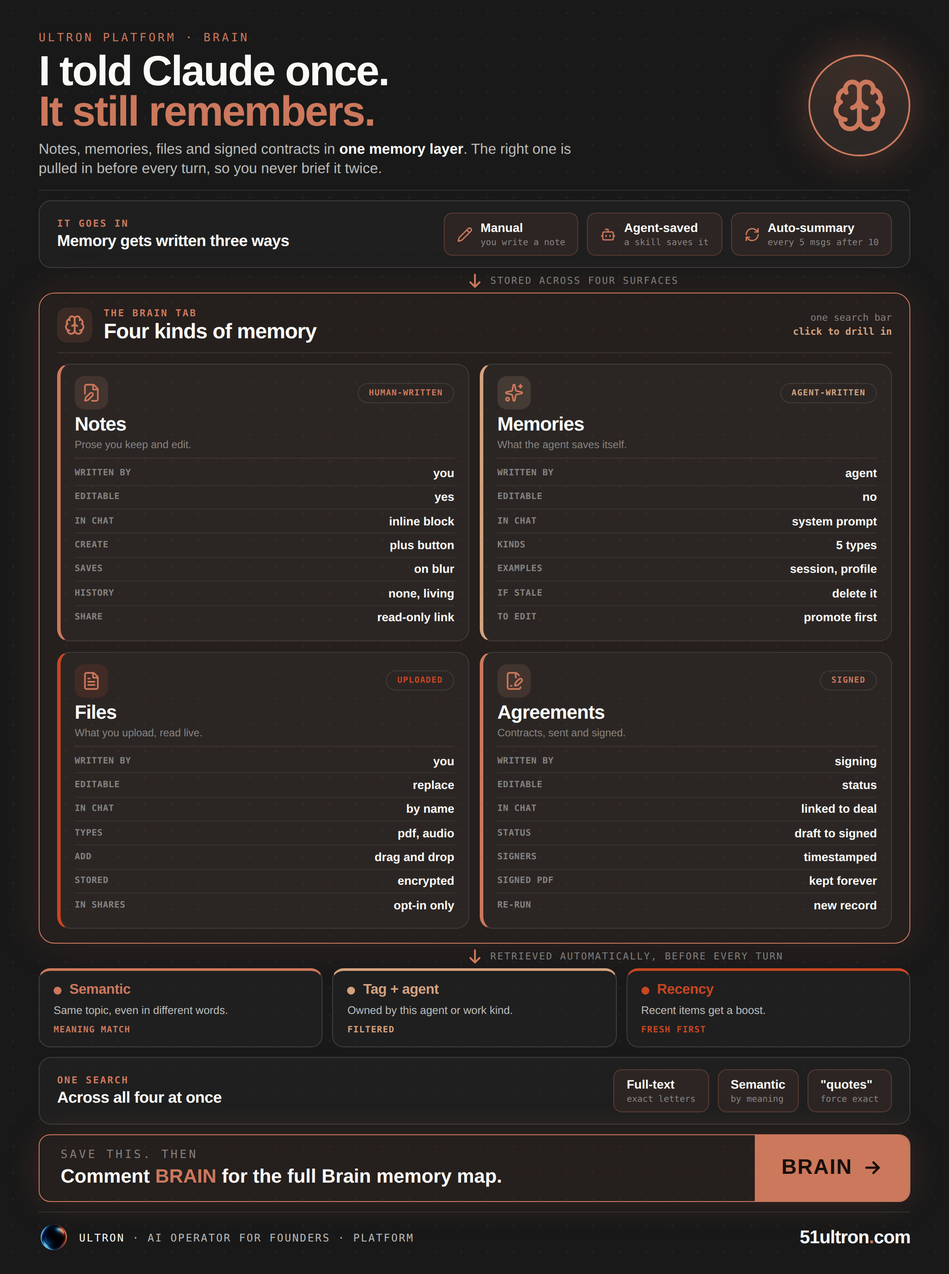
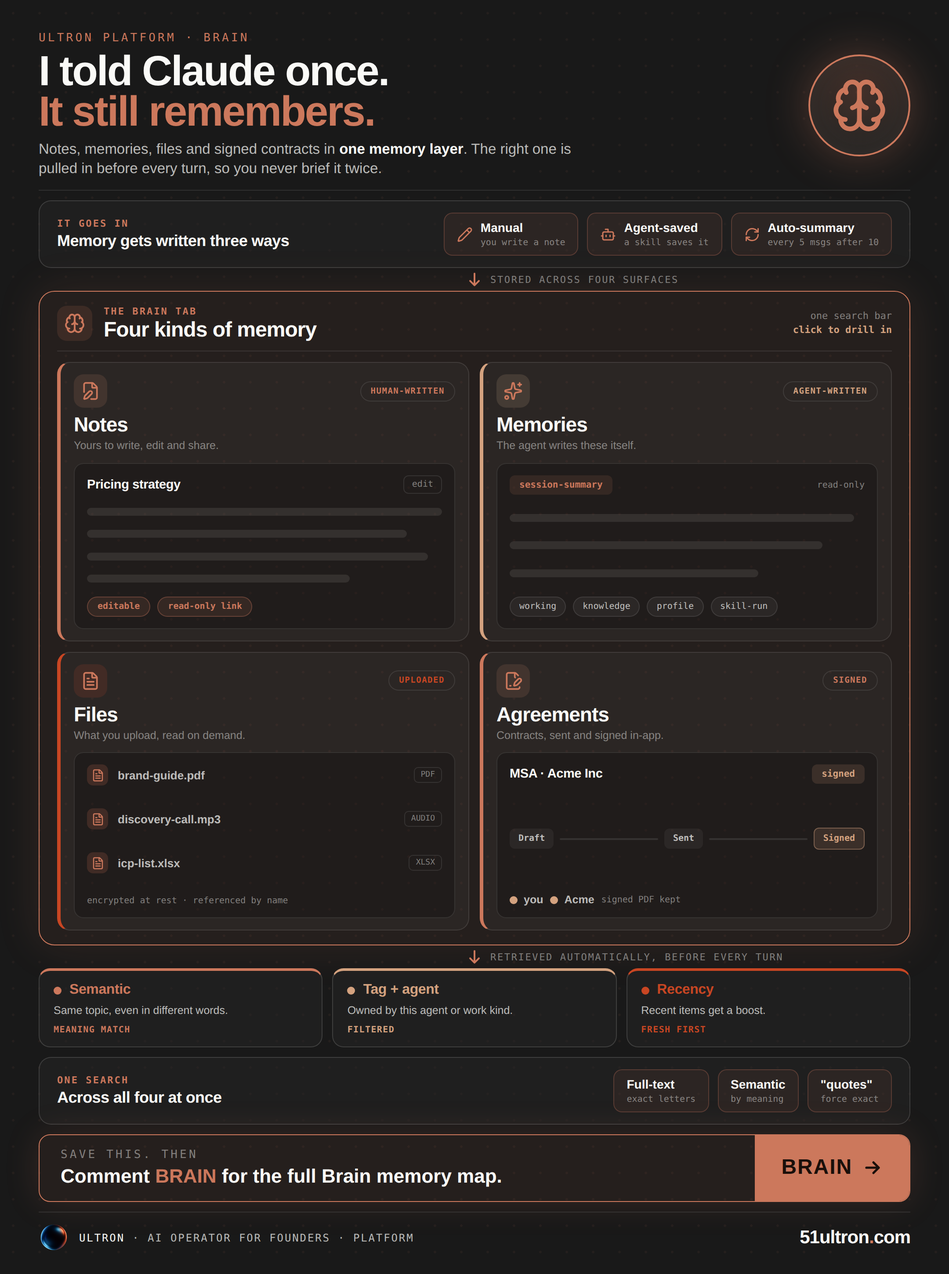
docs-06 Brain LinkedIn: redesign surfaces as mini mockups (kill the tables)
Operator: the key:value tables looked bad. Redesigned the four surface cards as
representative mini product mockups instead of spec tables:
- Notes: a note editor (title, edit, body lines, editable/share pills)
- Memories: a memory record (session-summary tag, read-only, kind chips)
- Files: a real file list (brand-guide.pdf, discovery-call.mp3, icp-list.xlsx +
  type badges, encrypted at rest)
- Agreements: a signing track (Draft > Sent > Signed) with signers and signed PDF
Each card now shows what the surface looks like in-product. Visual and dense, no
tables. Dark Ultron, 1450px, metadata scrubbed.

https://claude.ai/code/session_018fS7xMwDiJUxoNS3zo3BKw

diff --git a/content/docs-06-brain-linkedin-v1.html b/content/docs-06-brain-linkedin-v1.html
@@ -13,9 +13,9 @@ body{background:#0d0d0d;display:flex;justify-content:center;padding:24px 0;font-
 .brainw{flex-shrink:0;width:116px;height:116px;border-radius:50%;background:radial-gradient(circle at 50% 36%,rgba(204,120,92,.24),var(--slate2) 72%);border:2px solid var(--book);box-shadow:0 0 50px rgba(204,120,92,.32),inset 0 0 30px rgba(204,120,92,.1);display:flex;align-items:center;justify-content:center;}
 .brainw svg{width:64px;height:64px;}
 .flow{flex:1;display:flex;flex-direction:column;min-height:0;}
-.arrow{flex-shrink:0;display:flex;align-items:center;justify-content:center;color:var(--book);height:28px;position:relative;}
+.arrow{flex-shrink:0;display:flex;align-items:center;justify-content:center;color:var(--book);height:26px;position:relative;}
 .arrow .lbl{position:absolute;left:calc(50% + 18px);font-family:'DM Mono',monospace;font-size:11px;font-weight:500;letter-spacing:.12em;text-transform:uppercase;color:var(--ink46);white-space:nowrap;}
-.arrow svg{width:21px;height:21px;stroke:var(--book);stroke-width:2.4;fill:none;stroke-linecap:round;stroke-linejoin:round;}
+.arrow svg{width:20px;height:20px;stroke:var(--book);stroke-width:2.4;fill:none;stroke-linecap:round;stroke-linejoin:round;}
 .band{flex-shrink:0;background:rgba(38,38,37,.5);border:1px solid var(--ink14);border-radius:14px;padding:13px 20px;display:flex;align-items:center;gap:18px;}
 .band .bt{flex-shrink:0;}
 .band .bt .k{font-family:'DM Mono',monospace;font-size:11px;font-weight:600;letter-spacing:.14em;text-transform:uppercase;color:var(--book);margin-bottom:4px;}
@@ -32,17 +32,35 @@ body{background:#0d0d0d;display:flex;justify-content:center;padding:24px 0;font-
 .focal-h .meta{margin-left:auto;text-align:right;font-family:'DM Mono',monospace;font-size:11px;font-weight:500;color:var(--ink46);line-height:1.5;}
 .focal-h .meta b{color:var(--kraft);font-weight:700;}
 .bgrid{flex:1;min-height:0;display:grid;grid-template-columns:1fr 1fr;grid-template-rows:1fr 1fr;gap:12px;padding-top:12px;}
-.bcard{background:rgba(255,255,255,.03);border:1px solid var(--rule);border-left:4px solid var(--c);border-radius:14px;padding:13px 16px;display:flex;flex-direction:column;}
-.bct{display:flex;align-items:center;justify-content:space-between;margin-bottom:6px;}
-.bic{width:38px;height:38px;border-radius:11px;background:color-mix(in srgb,var(--c) 17%,var(--slate2));display:flex;align-items:center;justify-content:center;}.bic svg{width:22px;height:22px;}
-.btag{font-family:'DM Mono',monospace;font-size:9.5px;font-weight:600;letter-spacing:.08em;text-transform:uppercase;color:var(--c);border:1px solid var(--rule);padding:5px 12px;border-radius:20px;}
-.bnm{font-size:22px;font-weight:900;letter-spacing:-.5px;color:var(--ivory);line-height:1;}
-.bdesc{font-size:12px;font-weight:500;color:var(--ink46);line-height:1.25;margin-top:5px;}
-.br{flex:1;margin-top:7px;display:flex;flex-direction:column;border-top:1px dotted rgba(204,120,92,.3);padding-top:3px;}
-.br .row{flex:1;display:flex;justify-content:space-between;align-items:center;gap:10px;border-bottom:1px solid rgba(250,250,247,.06);}
-.br .row:last-child{border-bottom:none;}
-.br .rk{font-family:'DM Mono',monospace;font-size:10px;font-weight:600;letter-spacing:.04em;text-transform:uppercase;color:var(--ink46);white-space:nowrap;}
-.br .rv{font-size:13.5px;font-weight:700;color:var(--ivory);text-align:right;}
+.scard{background:rgba(255,255,255,.03);border:1px solid var(--rule);border-left:4px solid var(--c);border-radius:14px;padding:13px 15px;display:flex;flex-direction:column;}
+.sct{display:flex;align-items:center;justify-content:space-between;margin-bottom:8px;}
+.sic{width:38px;height:38px;border-radius:11px;background:color-mix(in srgb,var(--c) 17%,var(--slate2));display:flex;align-items:center;justify-content:center;}.sic svg{width:22px;height:22px;}
+.stag{font-family:'DM Mono',monospace;font-size:9.5px;font-weight:600;letter-spacing:.08em;text-transform:uppercase;color:var(--c);border:1px solid var(--rule);padding:5px 11px;border-radius:20px;}
+.snm{font-size:23px;font-weight:900;letter-spacing:-.5px;color:var(--ivory);line-height:1;}
+.slead{font-size:12.5px;font-weight:500;color:var(--ink46);line-height:1.25;margin-top:5px;}
+.mock{flex:1;margin-top:11px;background:rgba(0,0,0,.24);border:1px solid var(--rule);border-radius:11px;padding:13px 14px;display:flex;flex-direction:column;justify-content:space-between;gap:8px;overflow:hidden;}
+.mrow{display:flex;align-items:center;justify-content:space-between;gap:8px;}
+.mttl{font-size:14.5px;font-weight:800;color:var(--ivory);letter-spacing:-.2px;}
+.medit{font-family:'DM Mono',monospace;font-size:10px;color:var(--ink46);border:1px solid var(--rule);padding:4px 9px;border-radius:6px;}
+.mline{height:9px;border-radius:5px;background:rgba(250,250,247,.09);}
+.mfoot{display:flex;gap:8px;align-items:center;}
+.mwrap{flex-wrap:wrap;}
+.mpill{font-family:'DM Mono',monospace;font-size:10px;font-weight:600;color:var(--c);background:color-mix(in srgb,var(--c) 13%,transparent);border:1px solid color-mix(in srgb,var(--c) 32%,transparent);padding:5px 11px;border-radius:20px;}
+.mtag{font-family:'DM Mono',monospace;font-size:10.5px;font-weight:600;padding:5px 11px;border-radius:6px;color:var(--book);background:rgba(204,120,92,.13);}
+.mtag.kr{color:var(--kraft);background:rgba(212,162,127,.15);}
+.mlock{font-family:'DM Mono',monospace;font-size:10px;color:var(--ink46);}
+.mk{font-family:'DM Mono',monospace;font-size:10px;color:var(--ink70);background:rgba(250,250,247,.05);border:1px solid var(--rule);padding:5px 10px;border-radius:14px;}
+.mfile{display:flex;align-items:center;gap:11px;}
+.mfg{width:24px;height:24px;flex-shrink:0;border-radius:7px;background:color-mix(in srgb,var(--c) 16%,var(--slate2));display:flex;align-items:center;justify-content:center;}.mfg svg{width:15px;height:15px;}
+.mfn{flex:1;font-size:13px;font-weight:600;color:var(--ink70);white-space:nowrap;overflow:hidden;text-overflow:ellipsis;}
+.mft{font-family:'DM Mono',monospace;font-size:9px;color:var(--ink46);border:1px solid var(--rule);padding:3px 7px;border-radius:5px;flex-shrink:0;}
+.mtrack{display:flex;align-items:center;gap:7px;}
+.mstep{font-family:'DM Mono',monospace;font-size:10px;font-weight:600;padding:6px 10px;border-radius:6px;color:var(--ink46);background:rgba(250,250,247,.05);white-space:nowrap;}
+.mstep.done{color:var(--ink70);}
+.mstep.act{color:var(--kraft);background:rgba(212,162,127,.15);border:1px solid rgba(212,162,127,.42);}
+.mdash{flex:1;height:2px;background:var(--rule);border-radius:1px;min-width:8px;}
+.msign{display:flex;align-items:center;gap:7px;font-size:12.5px;font-weight:600;color:var(--ink70);}
+.msign::before{content:'';width:9px;height:9px;border-radius:50%;background:var(--kraft);flex-shrink:0;}
 .branch{flex-shrink:0;display:grid;grid-template-columns:repeat(3,1fr);gap:11px;}
 .oc{background:rgba(38,38,37,.5);border:1px solid var(--ink14);border-top:3px solid var(--c);border-radius:13px;padding:13px 16px;}
 .oc .on{display:flex;align-items:center;gap:9px;font-weight:800;font-size:16px;letter-spacing:-.2px;color:var(--c);margin-bottom:6px;}
@@ -59,4 +77,4 @@ body{background:#0d0d0d;display:flex;justify-content:center;padding:24px 0;font-
 .fl{display:flex;align-items:center;gap:12px;min-width:0;}.flogo{width:34px;height:34px;border-radius:50%;object-fit:cover;}
 .ftx{font-family:'DM Mono',monospace;font-size:12px;font-weight:400;letter-spacing:.12em;text-transform:uppercase;color:var(--ink70);}.ftx b{color:var(--ivory);font-weight:500;}
 .furl{font-weight:900;font-size:21px;letter-spacing:-.5px;color:var(--ivory);}.furl em{color:var(--book);font-style:normal;}
-</style></head><body><div class="frame" id="artifact"><div class="atm"></div><div class="hero"><div><div class="eye">Ultron Platform &middot; Brain</div><div class="hook">I told Claude once.<br><em>It still remembers.</em></div><div class="sub">Notes, memories, files and signed contracts in <b>one memory layer</b>. The right one is pulled in before every turn, so you never brief it twice.</div></div><div class="brainw"><svg xmlns="http://www.w3.org/2000/svg" width="1em" height="1em" viewBox="0 0 24 24"><g fill="none" stroke="#CC785C" stroke-linecap="round" stroke-linejoin="round" stroke-width="2"><path d="M12 18V5m3 8a4.17 4.17 0 0 1-3-4a4.17 4.17 0 0 1-3 4m8.598-6.5A3 3 0 1 0 12 5a3 3 0 1 0-5.598 1.5"/><path d="M17.997 5.125a4 4 0 0 1 2.526 5.77"/><path d="M18 18a4 4 0 0 0 2-7.464"/><path d="M19.967 17.483A4 4 0 1 1 12 18a4 4 0 1 1-7.967-.517"/><path d="M6 18a4 4 0 0 1-2-7.464"/><path d="M6.003 5.125a4 4 0 0 0-2.526 5.77"/></g></svg></div></div><div class="flow"><div class="band"><div class="bt"><div class="k">It goes in</div><div class="h">Memory gets written three ways</div></div><div class="chips"><div class="chip"><span class="ci"><svg xmlns="http://www.w3.org/2000/svg" width="1em" height="1em" viewBox="0 0 24 24"><path fill="none" stroke="#CC785C" stroke-linecap="round" stroke-linejoin="round" stroke-width="2" d="M21.174 6.812a1 1 0 0 0-3.986-3.987L3.842 16.174a2 2 0 0 0-.5.83l-1.321 4.352a.5.5 0 0 0 .623.622l4.353-1.32a2 2 0 0 0 .83-.497zM15 5l4 4"/></svg></span><span><span class="ct">Manual</span><span class="cs">you write a note</span></span></div><div class="chip"><span class="ci"><svg xmlns="http://www.w3.org/2000/svg" width="1em" height="1em" viewBox="0 0 24 24"><g fill="none" stroke="#CC785C" stroke-linecap="round" stroke-linejoin="round" stroke-width="2"><path d="M12 8V4H8"/><rect width="16" height="12" x="4" y="8" rx="2"/><path d="M2 14h2m16 0h2m-7-1v2m-6-2v2"/></g></svg></span><span><span class="ct">Agent-saved</span><span class="cs">a skill saves it</span></span></div><div class="chip"><span class="ci"><svg xmlns="http://www.w3.org/2000/svg" width="1em" height="1em" viewBox="0 0 24 24"><g fill="none" stroke="#CC785C" stroke-linecap="round" stroke-linejoin="round" stroke-width="2"><path d="M3 12a9 9 0 0 1 9-9a9.75 9.75 0 0 1 6.74 2.74L21 8"/><path d="M21 3v5h-5m5 4a9 9 0 0 1-9 9a9.75 9.75 0 0 1-6.74-2.74L3 16"/><path d="M8 16H3v5"/></g></svg></span><span><span class="ct">Auto-summary</span><span class="cs">every 5 msgs after 10</span></span></div></div></div><div class="arrow"><svg viewBox="0 0 24 24"><path d="M12 4v16M6 14l6 6 6-6"/></svg><span class="lbl">stored across four surfaces</span></div><div class="focal"><div class="focal-h"><div class="fhi"><svg xmlns="http://www.w3.org/2000/svg" width="1em" height="1em" viewBox="0 0 24 24"><g fill="none" stroke="#CC785C" stroke-linecap="round" stroke-linejoin="round" stroke-width="2"><path d="M12 18V5m3 8a4.17 4.17 0 0 1-3-4a4.17 4.17 0 0 1-3 4m8.598-6.5A3 3 0 1 0 12 5a3 3 0 1 0-5.598 1.5"/><path d="M17.997 5.125a4 4 0 0 1 2.526 5.77"/><path d="M18 18a4 4 0 0 0 2-7.464"/><path d="M19.967 17.483A4 4 0 1 1 12 18a4 4 0 1 1-7.967-.517"/><path d="M6 18a4 4 0 0 1-2-7.464"/><path d="M6.003 5.125a4 4 0 0 0-2.526 5.77"/></g></svg></div><div><div class="k">The Brain tab</div><div class="h">Four kinds of memory</div></div><div class="meta">one search bar<br><b>click to drill in</b></div></div><div class="bgrid"><div class="bcard" style="--c:var(--book)"><div class="bct"><span class="bic"><svg xmlns="http://www.w3.org/2000/svg" width="1em" height="1em" viewBox="0 0 24 24"><g fill="none" stroke="#CC785C" stroke-linecap="round" stroke-linejoin="round" stroke-width="2"><path d="M12.659 22H18a2 2 0 0 0 2-2V8a2.4 2.4 0 0 0-.706-1.706l-3.588-3.588A2.4 2.4 0 0 0 14 2H6a2 2 0 0 0-2 2v9.34"/><path d="M14 2v5a1 1 0 0 0 1 1h5m-9.622 4.622a1 1 0 0 1 3 3.003L8.36 20.637a2 2 0 0 1-.854.506l-2.867.837a.5.5 0 0 1-.62-.62l.836-2.869a2 2 0 0 1 .506-.853z"/></g></svg></span><span class="btag">HUMAN-WRITTEN</span></div><div class="bnm">Notes</div><div class="bdesc">Prose you keep and edit.</div><div class="br"><div class="row"><span class="rk">WRITTEN BY</span><span class="rv">you</span></div><div class="row"><span class="rk">EDITABLE</span><span class="rv">yes</span></div><div class="row"><span class="rk">IN CHAT</span><span class="rv">inline block</span></div><div class="row"><span class="rk">CREATE</span><span class="rv">plus button</span></div><div class="row"><span class="rk">SAVES</span><span class="rv">on blur</span></div><div class="row"><span class="rk">HISTORY</span><span class="rv">none, living</span></div><div class="row"><span class="rk">SHARE</span><span class="rv">read-only link</span></div></div></div><div class="bcard" style="--c:var(--kraft)"><div class="bct"><span class="bic"><svg xmlns="http://www.w3.org/2000/svg" width="1em" height="1em" viewBox="0 0 24 24"><g fill="none" stroke="#CC785C" stroke-linecap="round" stroke-linejoin="round" stroke-width="2"><path d="M11.017 2.814a1 1 0 0 1 1.966 0l1.051 5.558a2 2 0 0 0 1.594 1.594l5.558 1.051a1 1 0 0 1 0 1.966l-5.558 1.051a2 2 0 0 0-1.594 1.594l-1.051 5.558a1 1 0 0 1-1.966 0l-1.051-5.558a2 2 0 0 0-1.594-1.594l-5.558-1.051a1 1 0 0 1 0-1.966l5.558-1.051a2 2 0 0 0 1.594-1.594zM20 2v4m2-2h-4"/><circle cx="4" cy="20" r="2"/></g></svg></span><span class="btag">AGENT-WRITTEN</span></div><div class="bnm">Memories</div><div class="bdesc">What the agent saves itself.</div><div class="br"><div class="row"><span class="rk">WRITTEN BY</span><span class="rv">agent</span></div><div class="row"><span class="rk">EDITABLE</span><span class="rv">no</span></div><div class="row"><span class="rk">IN CHAT</span><span class="rv">system prompt</span></div><div class="row"><span class="rk">KINDS</span><span class="rv">5 types</span></div><div class="row"><span class="rk">EXAMPLES</span><span class="rv">session, profile</span></div><div class="row"><span class="rk">IF STALE</span><span class="rv">delete it</span></div><div class="row"><span class="rk">TO EDIT</span><span class="rv">promote first</span></div></div></div><div class="bcard" style="--c:var(--book-d)"><div class="bct"><span class="bic"><svg xmlns="http://www.w3.org/2000/svg" width="1em" height="1em" viewBox="0 0 24 24"><g fill="none" stroke="#CC785C" stroke-linecap="round" stroke-linejoin="round" stroke-width="2"><path d="M6 22a2 2 0 0 1-2-2V4a2 2 0 0 1 2-2h8a2.4 2.4 0 0 1 1.704.706l3.588 3.588A2.4 2.4 0 0 1 20 8v12a2 2 0 0 1-2 2z"/><path d="M14 2v5a1 1 0 0 0 1 1h5M10 9H8m8 4H8m8 4H8"/></g></svg></span><span class="btag">UPLOADED</span></div><div class="bnm">Files</div><div class="bdesc">What you upload, read live.</div><div class="br"><div class="row"><span class="rk">WRITTEN BY</span><span class="rv">you</span></div><div class="row"><span class="rk">EDITABLE</span><span class="rv">replace</span></div><div class="row"><span class="rk">IN CHAT</span><span class="rv">by name</span></div><div class="row"><span class="rk">TYPES</span><span class="rv">pdf, audio</span></div><div class="row"><span class="rk">ADD</span><span class="rv">drag and drop</span></div><div class="row"><span class="rk">STORED</span><span class="rv">encrypted</span></div><div class="row"><span class="rk">IN SHARES</span><span class="rv">opt-in only</span></div></div></div><div class="bcard" style="--c:var(--book)"><div class="bct"><span class="bic"><svg xmlns="http://www.w3.org/2000/svg" width="1em" height="1em" viewBox="0 0 24 24"><g fill="none" stroke="#CC785C" stroke-linecap="round" stroke-linejoin="round" stroke-width="2"><path d="M14.364 13.634a2 2 0 0 0-.506.854l-.837 2.87a.5.5 0 0 0 .62.62l2.87-.837a2 2 0 0 0 .854-.506l4.013-4.009a1 1 0 0 0-3.004-3.004zm.123-5.776A1 1 0 0 1 14 7V2"/><path d="M20 19.645V20a2 2 0 0 1-2 2H6a2 2 0 0 1-2-2V4a2 2 0 0 1 2-2h8a2.4 2.4 0 0 1 1.704.706l2.516 2.516M8 18h1"/></g></svg></span><span class="btag">SIGNED</span></div><div class="bnm">Agreements</div><div class="bdesc">Contracts, sent and signed.</div><div class="br"><div class="row"><span class="rk">WRITTEN BY</span><span class="rv">signing</span></div><div class="row"><span class="rk">EDITABLE</span><span class="rv">status</span></div><div class="row"><span class="rk">IN CHAT</span><span class="rv">linked to deal</span></div><div class="row"><span class="rk">STATUS</span><span class="rv">draft to signed</span></div><div class="row"><span class="rk">SIGNERS</span><span class="rv">timestamped</span></div><div class="row"><span class="rk">SIGNED PDF</span><span class="rv">kept forever</span></div><div class="row"><span class="rk">RE-RUN</span><span class="rv">new record</span></div></div></div></div></div><div class="arrow"><svg viewBox="0 0 24 24"><path d="M12 4v16M6 14l6 6 6-6"/></svg><span class="lbl">retrieved automatically, before every turn</span></div><div class="branch"><div class="oc" style="--c:var(--book)"><div class="on"><span class="d"></span>Semantic</div><div class="od">Same topic, even in different words.</div><div class="ok">meaning match</div></div><div class="oc" style="--c:var(--kraft)"><div class="on"><span class="d"></span>Tag + agent</div><div class="od">Owned by this agent or work kind.</div><div class="ok">filtered</div></div><div class="oc" style="--c:var(--book-d)"><div class="on"><span class="d"></span>Recency</div><div class="od">Recent items get a boost.</div><div class="ok">fresh first</div></div></div><div class="band" style="margin-top:11px"><div class="bt"><div class="k">One search</div><div class="h">Across all four at once</div></div><div class="chips"><div class="chip"><span><span class="ct">Full-text</span><span class="cs">exact letters</span></span></div><div class="chip"><span><span class="ct">Semantic</span><span class="cs">by meaning</span></span></div><div class="chip"><span><span class="ct">&quot;quotes&quot;</span><span class="cs">force exact</span></span></div></div></div></div><div class="cta"><div class="cta-l"><div class="cta-k">Save this. Then</div><div class="cta-t">Comment <b>BRAIN</b> for the full Brain memory map.</div></div><div class="cta-chip">BRAIN <svg viewBox="0 0 24 24"><path d="M5 12h14M13 6l6 6-6 6"/></svg></div></div><div class="ftr"><div class="fl"><img class="flogo" src="__LOGO__" alt="Ultron"><div class="ftx"><b>ULTRON</b> &middot; AI OPERATOR FOR FOUNDERS &middot; PLATFORM</div></div><div class="furl">51ultron<em>.</em>com</div></div></div></body></html>
+</style></head><body><div class="frame" id="artifact"><div class="atm"></div><div class="hero"><div><div class="eye">Ultron Platform &middot; Brain</div><div class="hook">I told Claude once.<br><em>It still remembers.</em></div><div class="sub">Notes, memories, files and signed contracts in <b>one memory layer</b>. The right one is pulled in before every turn, so you never brief it twice.</div></div><div class="brainw"><svg xmlns="http://www.w3.org/2000/svg" width="1em" height="1em" viewBox="0 0 24 24"><g fill="none" stroke="#CC785C" stroke-linecap="round" stroke-linejoin="round" stroke-width="2"><path d="M12 18V5m3 8a4.17 4.17 0 0 1-3-4a4.17 4.17 0 0 1-3 4m8.598-6.5A3 3 0 1 0 12 5a3 3 0 1 0-5.598 1.5"/><path d="M17.997 5.125a4 4 0 0 1 2.526 5.77"/><path d="M18 18a4 4 0 0 0 2-7.464"/><path d="M19.967 17.483A4 4 0 1 1 12 18a4 4 0 1 1-7.967-.517"/><path d="M6 18a4 4 0 0 1-2-7.464"/><path d="M6.003 5.125a4 4 0 0 0-2.526 5.77"/></g></svg></div></div><div class="flow"><div class="band"><div class="bt"><div class="k">It goes in</div><div class="h">Memory gets written three ways</div></div><div class="chips"><div class="chip"><span class="ci"><svg xmlns="http://www.w3.org/2000/svg" width="1em" height="1em" viewBox="0 0 24 24"><path fill="none" stroke="#CC785C" stroke-linecap="round" stroke-linejoin="round" stroke-width="2" d="M21.174 6.812a1 1 0 0 0-3.986-3.987L3.842 16.174a2 2 0 0 0-.5.83l-1.321 4.352a.5.5 0 0 0 .623.622l4.353-1.32a2 2 0 0 0 .83-.497zM15 5l4 4"/></svg></span><span><span class="ct">Manual</span><span class="cs">you write a note</span></span></div><div class="chip"><span class="ci"><svg xmlns="http://www.w3.org/2000/svg" width="1em" height="1em" viewBox="0 0 24 24"><g fill="none" stroke="#CC785C" stroke-linecap="round" stroke-linejoin="round" stroke-width="2"><path d="M12 8V4H8"/><rect width="16" height="12" x="4" y="8" rx="2"/><path d="M2 14h2m16 0h2m-7-1v2m-6-2v2"/></g></svg></span><span><span class="ct">Agent-saved</span><span class="cs">a skill saves it</span></span></div><div class="chip"><span class="ci"><svg xmlns="http://www.w3.org/2000/svg" width="1em" height="1em" viewBox="0 0 24 24"><g fill="none" stroke="#CC785C" stroke-linecap="round" stroke-linejoin="round" stroke-width="2"><path d="M3 12a9 9 0 0 1 9-9a9.75 9.75 0 0 1 6.74 2.74L21 8"/><path d="M21 3v5h-5m5 4a9 9 0 0 1-9 9a9.75 9.75 0 0 1-6.74-2.74L3 16"/><path d="M8 16H3v5"/></g></svg></span><span><span class="ct">Auto-summary</span><span class="cs">every 5 msgs after 10</span></span></div></div></div><div class="arrow"><svg viewBox="0 0 24 24"><path d="M12 4v16M6 14l6 6 6-6"/></svg><span class="lbl">stored across four surfaces</span></div><div class="focal"><div class="focal-h"><div class="fhi"><svg xmlns="http://www.w3.org/2000/svg" width="1em" height="1em" viewBox="0 0 24 24"><g fill="none" stroke="#CC785C" stroke-linecap="round" stroke-linejoin="round" stroke-width="2"><path d="M12 18V5m3 8a4.17 4.17 0 0 1-3-4a4.17 4.17 0 0 1-3 4m8.598-6.5A3 3 0 1 0 12 5a3 3 0 1 0-5.598 1.5"/><path d="M17.997 5.125a4 4 0 0 1 2.526 5.77"/><path d="M18 18a4 4 0 0 0 2-7.464"/><path d="M19.967 17.483A4 4 0 1 1 12 18a4 4 0 1 1-7.967-.517"/><path d="M6 18a4 4 0 0 1-2-7.464"/><path d="M6.003 5.125a4 4 0 0 0-2.526 5.77"/></g></svg></div><div><div class="k">The Brain tab</div><div class="h">Four kinds of memory</div></div><div class="meta">one search bar<br><b>click to drill in</b></div></div><div class="bgrid"><div class="scard" style="--c:var(--book)"><div class="sct"><span class="sic"><svg xmlns="http://www.w3.org/2000/svg" width="1em" height="1em" viewBox="0 0 24 24"><g fill="none" stroke="#CC785C" stroke-linecap="round" stroke-linejoin="round" stroke-width="2"><path d="M12.659 22H18a2 2 0 0 0 2-2V8a2.4 2.4 0 0 0-.706-1.706l-3.588-3.588A2.4 2.4 0 0 0 14 2H6a2 2 0 0 0-2 2v9.34"/><path d="M14 2v5a1 1 0 0 0 1 1h5m-9.622 4.622a1 1 0 0 1 3 3.003L8.36 20.637a2 2 0 0 1-.854.506l-2.867.837a.5.5 0 0 1-.62-.62l.836-2.869a2 2 0 0 1 .506-.853z"/></g></svg></span><span class="stag">HUMAN-WRITTEN</span></div><div class="snm">Notes</div><div class="slead">Yours to write, edit and share.</div><div class="mock"><div class="mrow"><span class="mttl">Pricing strategy</span><span class="medit">edit</span></div><div class="mline" style="width:100%"></div><div class="mline" style="width:90%"></div><div class="mline" style="width:96%"></div><div class="mline" style="width:74%"></div><div class="mfoot"><span class="mpill">editable</span><span class="mpill">read-only link</span></div></div></div><div class="scard" style="--c:var(--kraft)"><div class="sct"><span class="sic"><svg xmlns="http://www.w3.org/2000/svg" width="1em" height="1em" viewBox="0 0 24 24"><g fill="none" stroke="#CC785C" stroke-linecap="round" stroke-linejoin="round" stroke-width="2"><path d="M11.017 2.814a1 1 0 0 1 1.966 0l1.051 5.558a2 2 0 0 0 1.594 1.594l5.558 1.051a1 1 0 0 1 0 1.966l-5.558 1.051a2 2 0 0 0-1.594 1.594l-1.051 5.558a1 1 0 0 1-1.966 0l-1.051-5.558a2 2 0 0 0-1.594-1.594l-5.558-1.051a1 1 0 0 1 0-1.966l5.558-1.051a2 2 0 0 0 1.594-1.594zM20 2v4m2-2h-4"/><circle cx="4" cy="20" r="2"/></g></svg></span><span class="stag">AGENT-WRITTEN</span></div><div class="snm">Memories</div><div class="slead">The agent writes these itself.</div><div class="mock"><div class="mrow"><span class="mtag">session-summary</span><span class="mlock">read-only</span></div><div class="mline" style="width:97%"></div><div class="mline" style="width:88%"></div><div class="mline" style="width:70%"></div><div class="mfoot mwrap"><span class="mk">working</span><span class="mk">knowledge</span><span class="mk">profile</span><span class="mk">skill-run</span></div></div></div><div class="scard" style="--c:var(--book-d)"><div class="sct"><span class="sic"><svg xmlns="http://www.w3.org/2000/svg" width="1em" height="1em" viewBox="0 0 24 24"><g fill="none" stroke="#CC785C" stroke-linecap="round" stroke-linejoin="round" stroke-width="2"><path d="M6 22a2 2 0 0 1-2-2V4a2 2 0 0 1 2-2h8a2.4 2.4 0 0 1 1.704.706l3.588 3.588A2.4 2.4 0 0 1 20 8v12a2 2 0 0 1-2 2z"/><path d="M14 2v5a1 1 0 0 0 1 1h5M10 9H8m8 4H8m8 4H8"/></g></svg></span><span class="stag">UPLOADED</span></div><div class="snm">Files</div><div class="slead">What you upload, read on demand.</div><div class="mock"><div class="mfile"><span class="mfg"><svg xmlns="http://www.w3.org/2000/svg" width="1em" height="1em" viewBox="0 0 24 24"><g fill="none" stroke="#CC785C" stroke-linecap="round" stroke-linejoin="round" stroke-width="2"><path d="M6 22a2 2 0 0 1-2-2V4a2 2 0 0 1 2-2h8a2.4 2.4 0 0 1 1.704.706l3.588 3.588A2.4 2.4 0 0 1 20 8v12a2 2 0 0 1-2 2z"/><path d="M14 2v5a1 1 0 0 0 1 1h5M10 9H8m8 4H8m8 4H8"/></g></svg></span><span class="mfn">brand-guide.pdf</span><span class="mft">PDF</span></div><div class="mfile"><span class="mfg"><svg xmlns="http://www.w3.org/2000/svg" width="1em" height="1em" viewBox="0 0 24 24"><g fill="none" stroke="#CC785C" stroke-linecap="round" stroke-linejoin="round" stroke-width="2"><path d="M6 22a2 2 0 0 1-2-2V4a2 2 0 0 1 2-2h8a2.4 2.4 0 0 1 1.704.706l3.588 3.588A2.4 2.4 0 0 1 20 8v12a2 2 0 0 1-2 2z"/><path d="M14 2v5a1 1 0 0 0 1 1h5M10 9H8m8 4H8m8 4H8"/></g></svg></span><span class="mfn">discovery-call.mp3</span><span class="mft">AUDIO</span></div><div class="mfile"><span class="mfg"><svg xmlns="http://www.w3.org/2000/svg" width="1em" height="1em" viewBox="0 0 24 24"><g fill="none" stroke="#CC785C" stroke-linecap="round" stroke-linejoin="round" stroke-width="2"><path d="M6 22a2 2 0 0 1-2-2V4a2 2 0 0 1 2-2h8a2.4 2.4 0 0 1 1.704.706l3.588 3.588A2.4 2.4 0 0 1 20 8v12a2 2 0 0 1-2 2z"/><path d="M14 2v5a1 1 0 0 0 1 1h5M10 9H8m8 4H8m8 4H8"/></g></svg></span><span class="mfn">icp-list.xlsx</span><span class="mft">XLSX</span></div><div class="mfoot"><span class="mlock">encrypted at rest &middot; referenced by name</span></div></div></div><div class="scard" style="--c:var(--book)"><div class="sct"><span class="sic"><svg xmlns="http://www.w3.org/2000/svg" width="1em" height="1em" viewBox="0 0 24 24"><g fill="none" stroke="#CC785C" stroke-linecap="round" stroke-linejoin="round" stroke-width="2"><path d="M14.364 13.634a2 2 0 0 0-.506.854l-.837 2.87a.5.5 0 0 0 .62.62l2.87-.837a2 2 0 0 0 .854-.506l4.013-4.009a1 1 0 0 0-3.004-3.004zm.123-5.776A1 1 0 0 1 14 7V2"/><path d="M20 19.645V20a2 2 0 0 1-2 2H6a2 2 0 0 1-2-2V4a2 2 0 0 1 2-2h8a2.4 2.4 0 0 1 1.704.706l2.516 2.516M8 18h1"/></g></svg></span><span class="stag">SIGNED</span></div><div class="snm">Agreements</div><div class="slead">Contracts, sent and signed in-app.</div><div class="mock"><div class="mrow"><span class="mttl">MSA &middot; Acme Inc</span><span class="mtag kr">signed</span></div><div class="mtrack"><span class="mstep done">Draft</span><span class="mdash"></span><span class="mstep done">Sent</span><span class="mdash"></span><span class="mstep act">Signed</span></div><div class="mfoot"><span class="msign">you</span><span class="msign">Acme</span><span class="mlock">signed PDF kept</span></div></div></div></div></div><div class="arrow"><svg viewBox="0 0 24 24"><path d="M12 4v16M6 14l6 6 6-6"/></svg><span class="lbl">retrieved automatically, before every turn</span></div><div class="branch"><div class="oc" style="--c:var(--book)"><div class="on"><span class="d"></span>Semantic</div><div class="od">Same topic, even in different words.</div><div class="ok">meaning match</div></div><div class="oc" style="--c:var(--kraft)"><div class="on"><span class="d"></span>Tag + agent</div><div class="od">Owned by this agent or work kind.</div><div class="ok">filtered</div></div><div class="oc" style="--c:var(--book-d)"><div class="on"><span class="d"></span>Recency</div><div class="od">Recent items get a boost.</div><div class="ok">fresh first</div></div></div><div class="band" style="margin-top:11px"><div class="bt"><div class="k">One search</div><div class="h">Across all four at once</div></div><div class="chips"><div class="chip"><span><span class="ct">Full-text</span><span class="cs">exact letters</span></span></div><div class="chip"><span><span class="ct">Semantic</span><span class="cs">by meaning</span></span></div><div class="chip"><span><span class="ct">&quot;quotes&quot;</span><span class="cs">force exact</span></span></div></div></div></div><div class="cta"><div class="cta-l"><div class="cta-k">Save this. Then</div><div class="cta-t">Comment <b>BRAIN</b> for the full Brain memory map.</div></div><div class="cta-chip">BRAIN <svg viewBox="0 0 24 24"><path d="M5 12h14M13 6l6 6-6 6"/></svg></div></div><div class="ftr"><div class="fl"><img class="flogo" src="__LOGO__" alt="Ultron"><div class="ftx"><b>ULTRON</b> &middot; AI OPERATOR FOR FOUNDERS &middot; PLATFORM</div></div><div class="furl">51ultron<em>.</em>com</div></div></div></body></html>

diff --git a/analysis/reference-layouts.md b/analysis/reference-layouts.md
@@ -73,3 +73,4 @@ mini data table + progress bar) was applied INSIDE the central focal panel only,
 - TikTok/IG vertical SAFE ZONE (operator: top margin not respected, mast got covered): top inset is **250px** (not 150), right 130, bottom 330, left 70. Memorized in CLAUDE.md 9. Pre-flight: mast top >= 250px. docs-05 carousel re-rendered with top:250.
 - docs-06 Brain LinkedIn: reuses the approved docs-05 journey skeleton (hero + visual > 'it goes in' write-paths band > FOCAL > 'it comes back' band > CTA). Focal = 2x2 grid of the 4 surfaces (Notes/Memories/Files/Agreements), each a dense card with icon + name + tag + 5-row data table (written by / editable / in chat / detail). Retrieval band = 3 signal cards (semantic / tag+agent / recency). Cards 16.4% empty. Keyword BRAIN.
 - FILL LESSON (operator, again): bounding-box coverage is misleading - flex:1 rows stretch to 'cover' a tall card while the text floats with big gaps. Real density = ENOUGH rows so each row is ~28-34px with readable text, not 50px+. Rule: a dense data card needs ~7 rows; if fewer fit, shrink the card (add another section) rather than stretch rows. docs-06 Brain surfaces fixed to 7 tight rows + a Search band to shrink the focal.
+- docs-06 Brain LinkedIn REDESIGN (operator: stop using key:value tables, they look bad): the 4 surface cards are now MINI PRODUCT MOCKUPS, not tables - Notes=a note editor (title+edit+text lines+pills), Memories=a memory record (session-summary tag + kind chips), Files=a real file list (named files + type badges + encrypted), Agreements=a signing track (Draft>Sent>Signed + signers). Shows what each surface looks like in-product. Reusable pattern: prefer a representative mini-mockup over a spec table.
